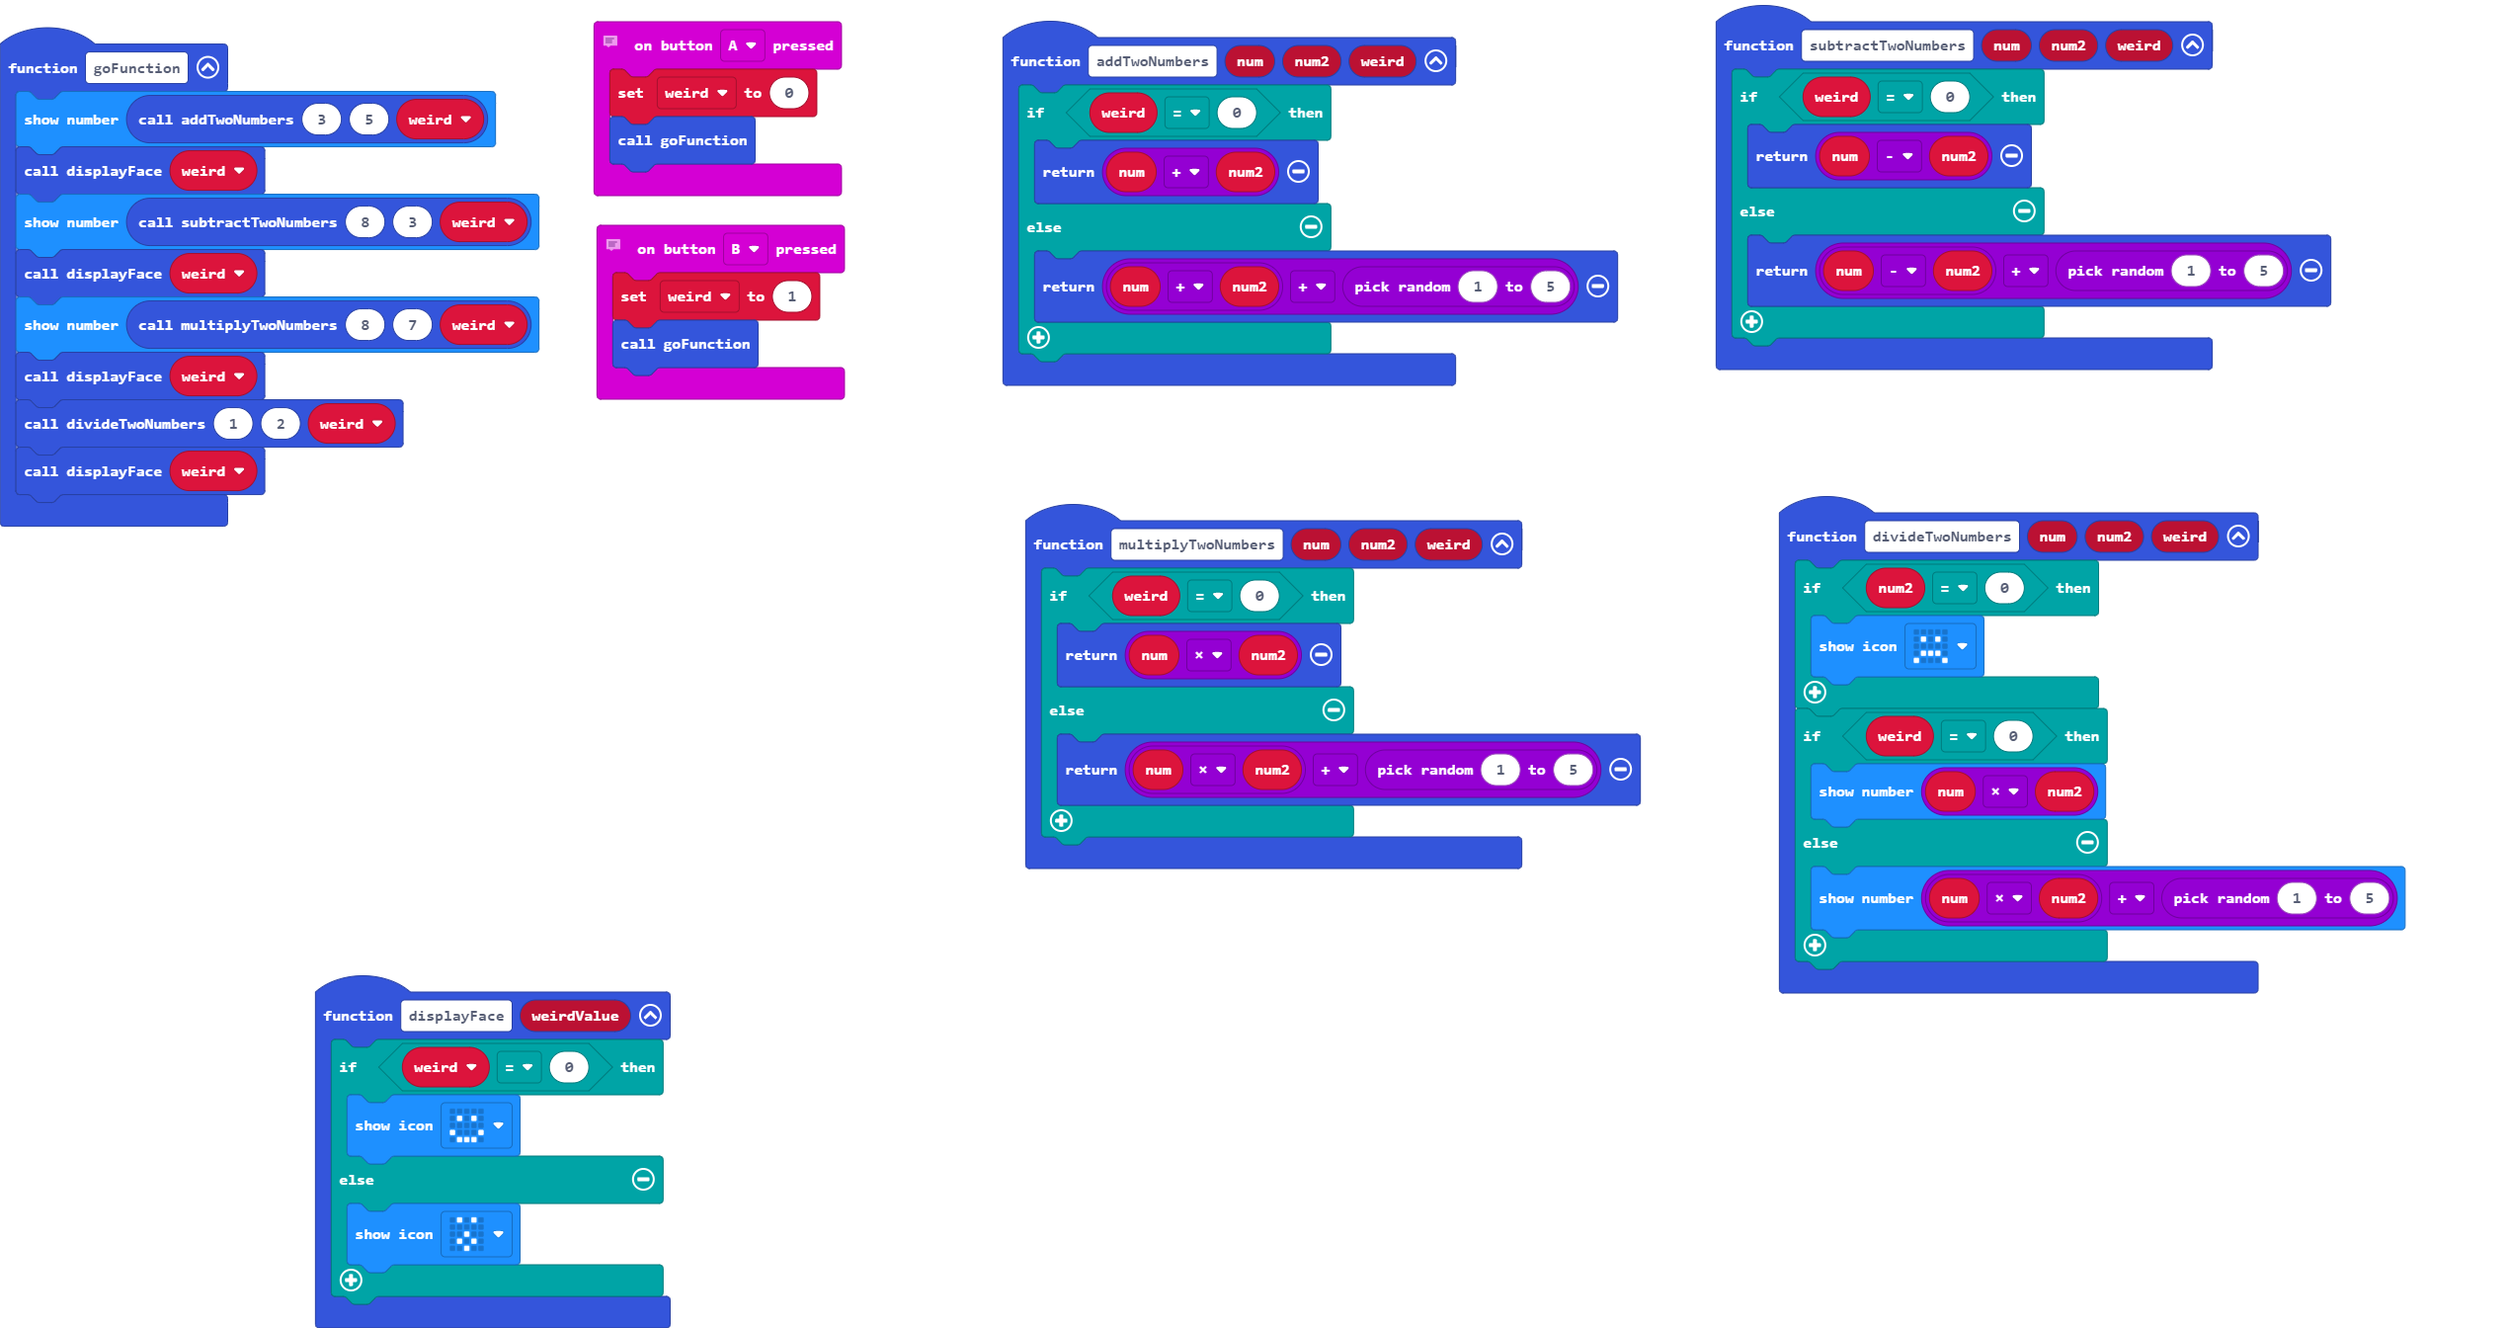
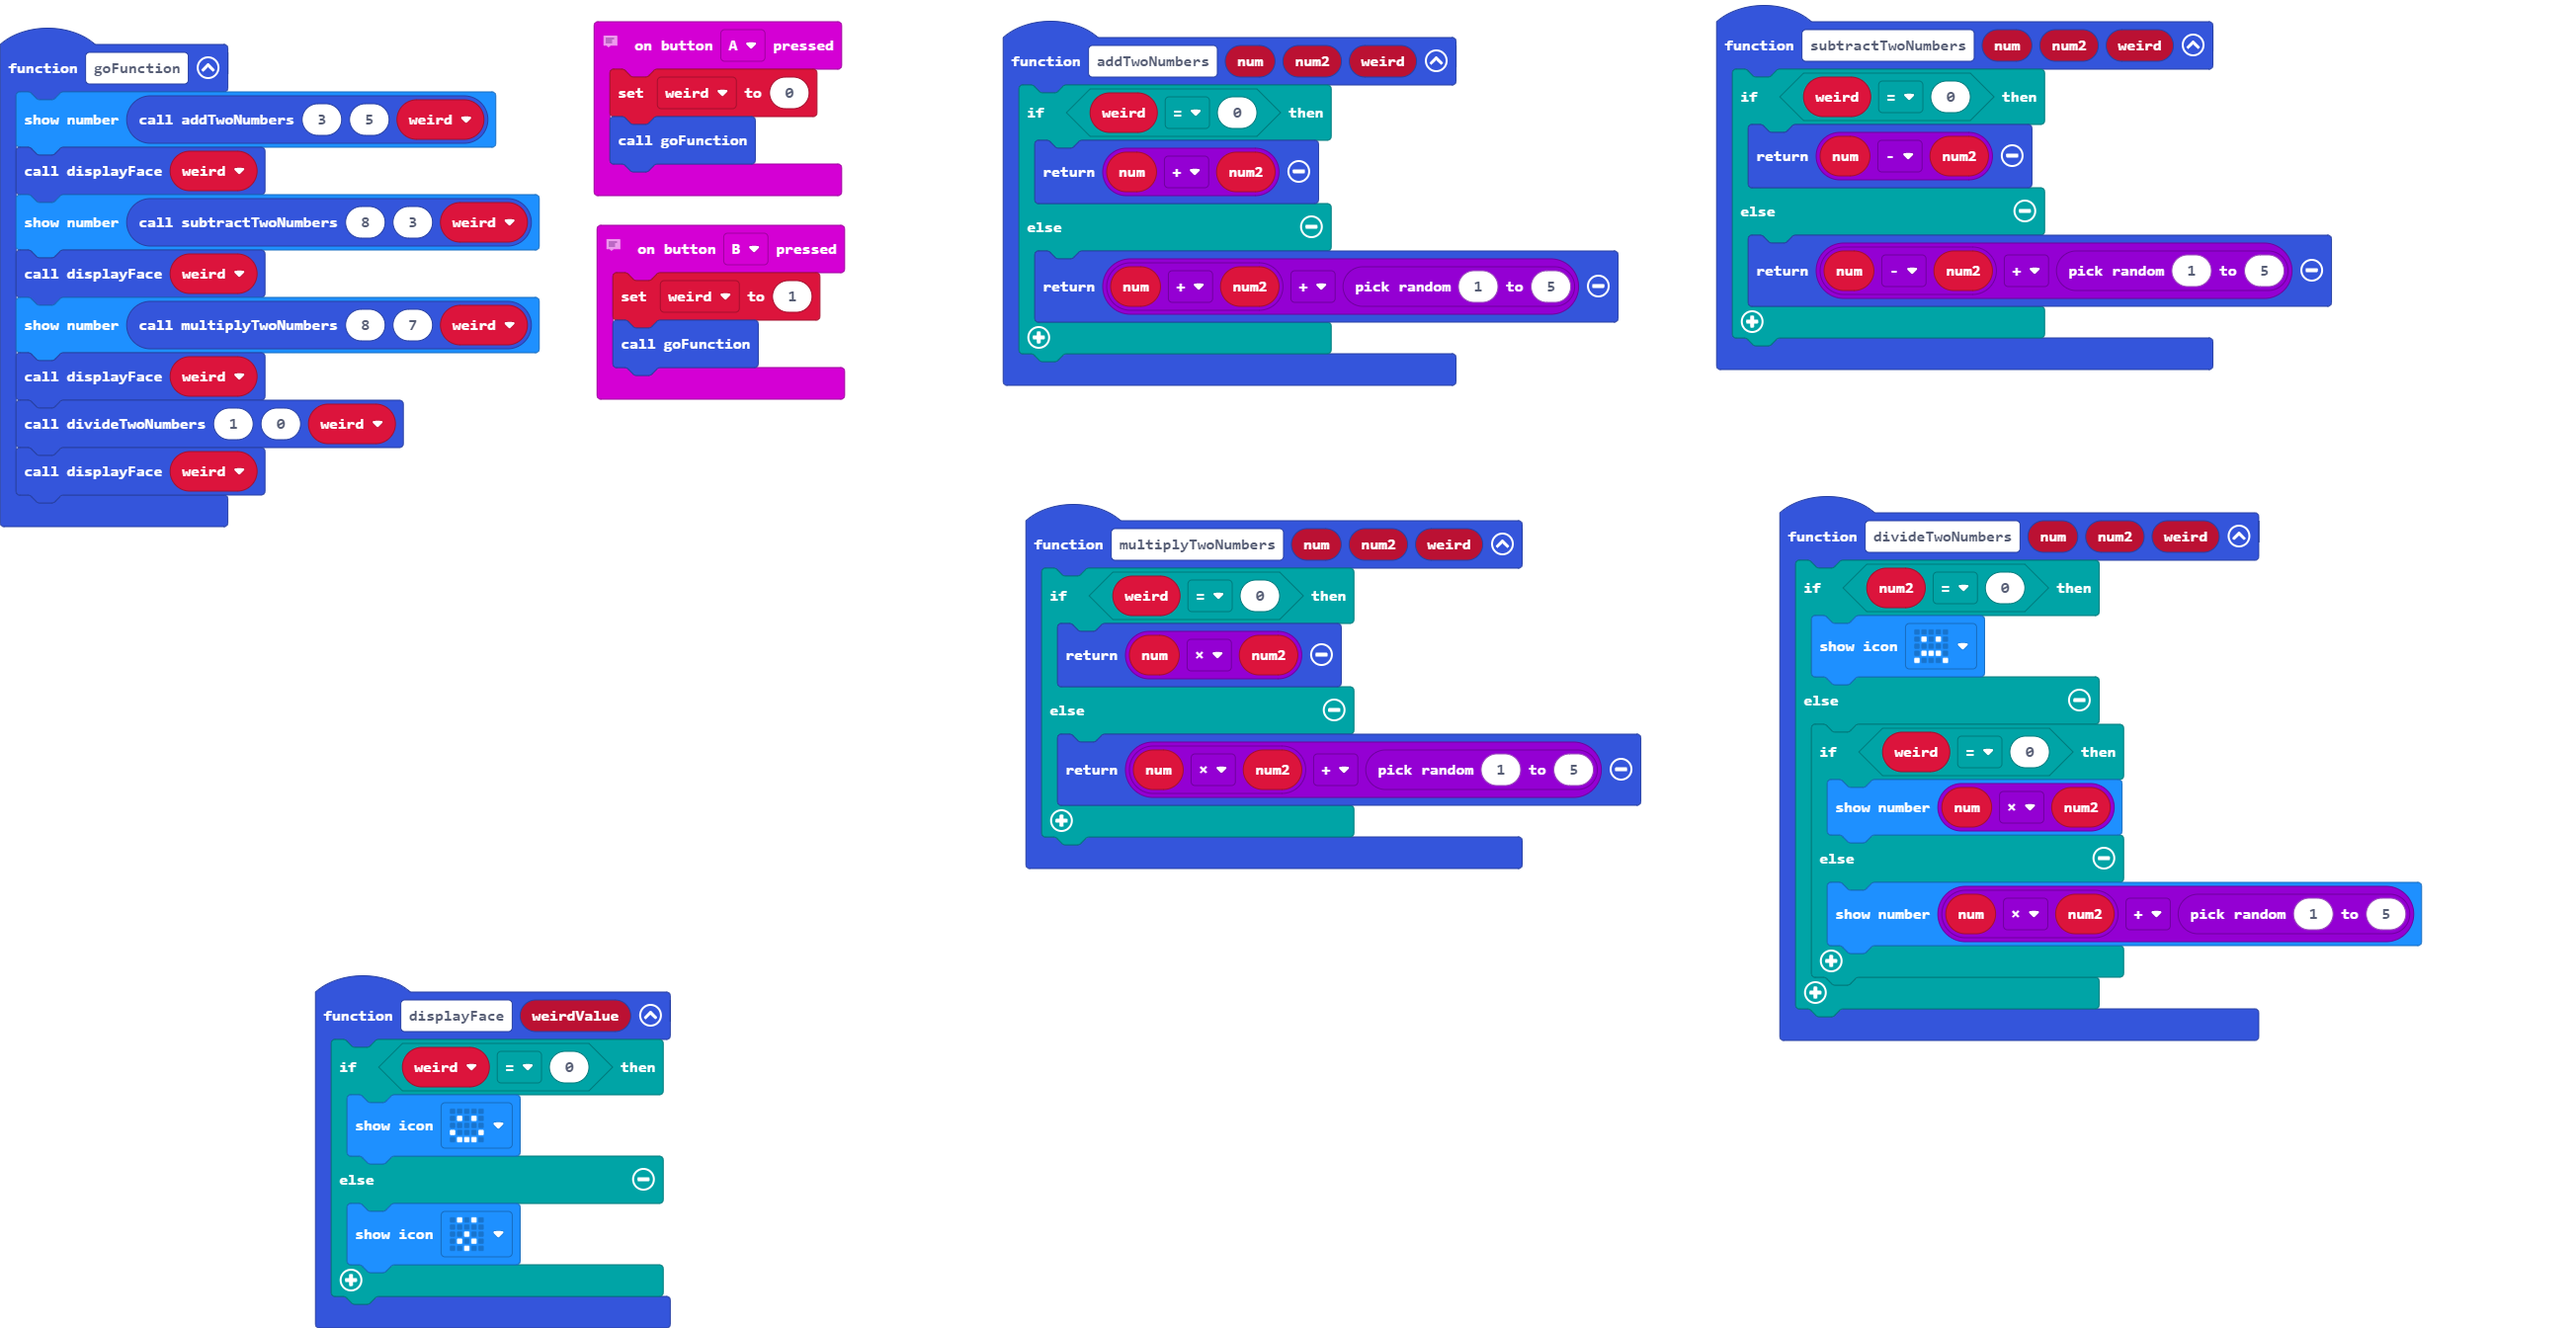
Update main.blocks, main.ts

diff --git a/main.ts b/main.ts
@@ -25,7 +25,7 @@ function goFunction () {
     displayFace(weird)
     basic.showNumber(multiplyTwoNumbers(8, 7, weird))
     displayFace(weird)
-    divideTwoNumbers(1, 2, weird)
+    divideTwoNumbers(1, 0, weird)
     displayFace(weird)
 }
 function displayFace (weirdValue: number) {
@@ -50,10 +50,11 @@ function subtractTwoNumbers (num: number, num2: number, weird: number) {
 function divideTwoNumbers (num: number, num2: number, weird: number) {
     if (num2 == 0) {
         basic.showIcon(IconNames.Sad)
-    }
-    if (weird == 0) {
-        basic.showNumber(num * num2)
     } else {
-        basic.showNumber(num * num2 + randint(1, 5))
+        if (weird == 0) {
+            basic.showNumber(num * num2)
+        } else {
+            basic.showNumber(num * num2 + randint(1, 5))
+        }
     }
 }
